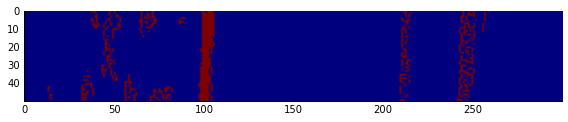
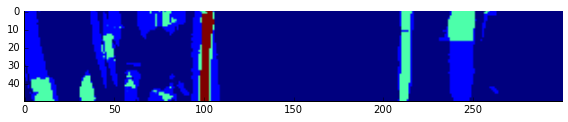
Update README.md

Changed region(s): [[0.0299, 0.0738, 0.3891, 0.8361], [0.6884, 0.0738, 0.8979, 0.8361]]

diff --git a/README.md b/README.md
@@ -1,7 +1,7 @@
 # Advanced Lane Finding
 [![Udacity - Self-Driving Car NanoDegree](https://s3.amazonaws.com/udacity-sdc/github/shield-carnd.svg)](http://www.udacity.com/drive)
 
-The goal of this project is to create a software pipeline to identify the lane boundaries in a video, as well as determining possible and actual problems and pitfalls during that.
+The goal of this project is to create a software pipeline to identify the lane boundaries in a video, as well as determining possible and actual problems and pitfalls during that. A result of running the implemented pipeline on the project video can be seen at [https://www.youtube.com/watch?v=6-eFJ7o5GO4](https://www.youtube.com/watch?v=6-eFJ7o5GO4).
 
 ![](output_images/snap4.jpg)
 
@@ -178,31 +178,80 @@ The following image shows a detection after thresholding.
 
 ![](output_images/4_pattern_matching.png)
 
-Attempts to combine different edge detection and color picking techniques were ultimately discarded as leading to too many false positives or suppressing too many valid pixels, resulting in loss of track or almost impossible cold-start initialization.
+Attempts to combine different edge detection and color picking techniques were ultimately discarded as leading to too many false positives or suppressing too many valid pixels, resulting in loss of track or almost impossible cold-start initialization. An example of a possible outcome of detection combination can be seen in the following image, where extremely bright spots and reflections lead to too many highlighted areas.
+ 
+![](output_images/5_combination_hard.png)
+
+Here's a somewhat friendlier setup when nonbinary values are allowed; here, blue represents no candidates while red suggests strong support of lane lines.
+
+![](output_images/6_combination_easy.png)
 
 #### 4. Describe how (and identify where in your code) you identified lane-line pixels and fit their positions with a polynomial?
 
-Then I did some other stuff and fit my lane lines with a 2nd order polynomial kinda like this:
+The detection of lane lines is outlined in the [./notebooks/6_lane_line_regression.ipynb](notebooks/6_lane_line_regression.ipynb) notebook and implemented in the [`./pipeline/lanes/LaneDetection.py`](pipeline/lanes/LaneDetection.py) class.
 
-![alt text][image5]
+A search window starting from the bottom of the warped image is defined. The following image depicts the outcome of an earlier version of the proposal when combination techniques were still used, again in false-color representation:
+
+![](output_images/6_bootstrap.png)
+
+From this view, a histogram of column-wise intensities is generated with the goal of identifying the (X-axis) offsets that most probably contain lane lines.
+
+![](output_images/6_bootstrap_hist.png)
+
+In this histogram, peaks identify locations where lane lines are most likely to be found. It also shows a problem of the combination approach: A lot of "low importance" features can quickly add up to a peak, as can be seen at location `x=50`. If a binary threshold would have been used instead of "continuous" values, this scenario would have looked less dramatic. However, this heavily relies on a good threshold selection as well as a "nice" scenario, as this window selection shows:
+
+![](output_images/6_bootstrap_bad.png)
+
+Here, the peaks clearly have shifted to the left, bootstrapping the search at utterly wrong positions, given that we expect lane lines to be close to the locations `x=100` and `x=200` by design.
+
+![](output_images/6_bootstrap_bad_hist.png)
+
+This goes to show that a bad proposal generation easily throws off the whole pipeline in an instance.
+
+From the obtained seed positions, a marching boxes approach is used to detect a local trend in intensity shift using a similar local histogram-based algorithm: Starting two search windows at the seed positions on the bottom of the image (here, red for the left and cyan for the right lane line), each subsequent higher window is centered at the X location of highest columnwise intensity sums, i.e. histogram peaks. By doing so, the search windows follow the position of mean intensity, eventually "climbing up" the lane line. When not enough pixels are found within a box, the current position is assumed to be the center of the following window, thus searching "straight" up from the current position.
+After a stopping condition is triggered when the search window leaves the frame to either side or was unable to find enough pixels for a defined number of times, a second-order polynomial was fitted through the center coordinates of the boxes; these fits are rendered in yellow color on the following image.
+
+![](output_images/6_search.png)
+
+In friendly scenarios, this plays out fine, as the following image shows:
+
+![](output_images/6_search_2.png)
+
+However, a bad initialization or noise in the image quickly leads to degraded results, as can be seen in this result:
+
+![](output_images/6_search_3.png)
+
+When a fit has been found, the next iteration will attempt to reuse it directly: Along the fit, search windows are evaluated and a new confidence is calculated. If there is enough support, the fit is adjusted to the new rectangles. Only if this approach fails, the whole search pipeline is restarted.
+
+Some improvements were added to this general idea:
+
+- A local fit of the last boxes is used to steer the search to follow the local curvature. The idea here is that even if a box is missing, the lane line might still be curved, so search straight up either is fruitless or leads to a vastly broken fit.
+- The bottom-most box is discarded for the fit as it - being a seed position - is not necessarily agreeing with the remaining boxes.
+- Each fit is re-evaluated for support in the image to obtain a confidence measure of the lane line estimate. This is especially helpful if a lane line search is off by accident, leaving the actual track and being re-confirmed in a distance. In such kind of fit, the "missed" boxes count against the confidence.
+- Actual fits are finally averaged over a given history set using a Gaussian weighting scheme and the confidence in order to build a low-pass filter that is meant to be resilient to sudden changes.
 
 #### 5. Describe how (and identify where in your code) you calculated the radius of curvature of the lane and the position of the vehicle with respect to center.
 
-I did this in lines # through # in my code in `my_other_file.py`
+The calculation of the curvature of the line fit is implemented in [./pipeline/curvature.py](pipeline/curvature.py) and normalized to meters by making use of the first and second derivative of the quadratic fit (`f(x) = ax^2 + bx + c`).
+Specifically, the curvature is given as
+
+```python
+def curvature_radius(fit, y: float, mx: float) -> float:
+    coeff_a, coeff_b, coeff_c = fit
+    if coeff_a == 0:
+        return CURVATURE_INVALID
+    radius = ((1. + (2. * coeff_a * y + coeff_b) ** 2.) ** 1.5) / (2. * coeff_a)
+    return radius * mx
+```
+
+That is the square root of (one plus (the square of (the curve's first derivate `f'(x) = 2*a*x + b`)) raised to the power of three) divided by the curve's second derivative `f''(x) = 2*a`.
+
 
 #### 6. Provide an example image of your result plotted back down onto the road such that the lane area is identified clearly.
 
-I implemented this step in lines # through # in my code in `yet_another_file.py` in the function `map_lane()`.  Here is an example of my result on a test image:
+Finally, the fit is backprojected using the inverse perspective transform and rendered onto the original (undistorted) video frame.
 
-![alt text][image6]
-
----
-
-### Pipeline (video)
-
-#### 1. Provide a link to your final video output.  Your pipeline should perform reasonably well on the entire project video (wobbly lines are ok but no catastrophic failures that would cause the car to drive off the road!).
-
-Here's a [link to my video result](./project_video.mp4)
+![](output_images/snap1.jpg)
 
 ---
 
@@ -210,7 +259,12 @@ Here's a [link to my video result](./project_video.mp4)
 
 #### 1. Briefly discuss any problems / issues you faced in your implementation of this project.  Where will your pipeline likely fail?  What could you do to make it more robust?
 
+The implemented pipeline is far from perfect and definitely tailored towards the scenarios observed in the project videos. Because of that, most assumptions that are taken are likely to be invalid if the time of the day, the sky or simply the country changes. For example, if a lane fit is lost, one could argue that "staying at the right" side of the lane is a good idea - that is, unless you are in Britain, Hong Kong etc., where people drive on the left. At night, the color of the white lane lines might shift to a blue or red tint, depending on the street lights, so color corrections would be required.
 
-- Video is not adaptive to lighting changes
+A lot of trouble in the challenge videos also comes from the static exposure setup of the camera. If the camera was able to adjust for overexposure e.g. by reducing shutter times, clearer views on the street could be obtained without having to fiddle around with thresholds that much. Reflections of the dashboard could be reduced by finding a better placement of the camera to begin with, etc. Losing track of lane lines requires to rely on information of previous fits, however most of the operations are performed in isolation, missing the spatio-temporal correlations between frames. Furthermore, even though a lot of information could be extracted from the video feed only e.g. using point tracking, adaptive approaches such as Kalman and particle filters could be used to their full power if more information about the physical system was known, such as sensor input from the wheels, accelerometer data, etc. For example, lane fits could be evolved over time given that we know the direction of the wheels and the current speed.
 
+When the street is not flat or the lane is oriented orthogonal to the camera, all assumptions about the orientation of edges are basically invalid. That means that when entering a road, obtaining an understanding of lanes is close to impossible. And even if the lane is oriented with the view, the lane line might either not exist or be hidden to begin with, as it is in certain parts of the "harder challenge" video. Relying on intensity spikes only can also be a problem in the presence of bright metal surfaces such as a crash barrier, so some more engineering is required there as well.
 
+Most of the operations are done in vain: For example, it is not required to perform edge detection, convolutions or template matching on the whole image if only a fraction of it is going to be searched anyway. When search restarts from a previous fit, only edges within and/or around the previous search windows need to be calculated. Likewise, if search is starting from scratch, a edges in the bottom part of the image are required in addition to the search windows. Most of the time, the edges of the top of the image never are evaluated. Likewise, calculation intensive operations such as template matching can be performed on locations where lane lines are expected only; that is, rather than convolving the whole image with the templates, a Canny detector can be used to obtain _possible_ lane lines, which then need to be verified or discarded using a more exact algorithm. This kind of cascaded operation helps speeding up e.g. face detections like the Viola-Jones algorithm and are, generally speaking, suitable to this scenario as well.
+
+Searching the lane line using marching boxes - which is susceptible to errors in the proposal generation, as was shown above - could be avoided entirely in favor of directly attempting to fit a polynomial or spline using probabilistic approaches such as RANSAC, where the search could be conditioned with information from previous frames as well. Using superpixel techniques such as SLIC on the original image before performing edge detection could help reducing noise while isolating lane lines from their surroundings. However, as the template matching approach has shown, relying on thresholds and channel combinations might just be the wrong approach to tackle this problem. The next time around, I would treat the whole project as a machine learning problem where polynomial or spline coefficients would be predicted directly from the image. It certainly makes the whole project a data problem, rather than an engineering one, but even the naive template matching outcomes look much more promising than anything else I tried.
